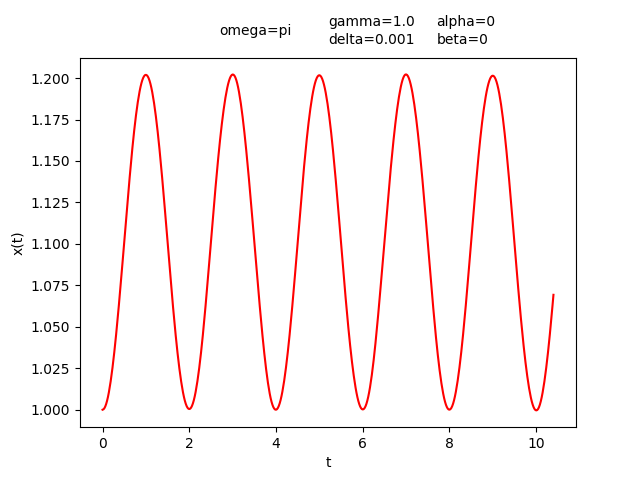
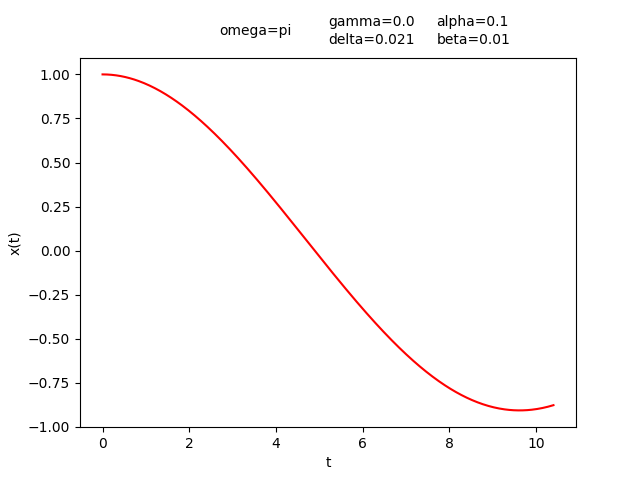
new_pngs

diff --git a/src/numerical_methods/Runge_kut_scipy.py b/src/numerical_methods/Runge_kut_scipy.py
@@ -4,10 +4,10 @@ from scipy.integrate import odeint, solve_ivp
 import matplotlib.pyplot as plt
 import numpy as np
 
-gamma = 1.0
-delta = 0.001
-alpha = 0
-beta = 0
+gamma = 0.0
+delta = 0.021
+alpha = 0.1
+beta = 0.01
 l = 1
 omega = np.pi*l
 
@@ -51,7 +51,7 @@ if __name__ == "__main__": # pragma: no cover
     plt.plot(t, sol.y[0, :], 'r')
     plt.xlabel('t')
     plt.ylabel('x(t)')
-    dl = (max(sol.y[0]) - min(sol.y[1]))*0.012 # <- change the last parameter to align the labels
+    dl = (max(sol.y[0]) - min(sol.y[1]))*0.132 # <- change the last parameter to align the labels
     plt.text(t[-1]/2-2.5, max(sol.y[0, :])+1.3*dl, f"omega={'' if l==1 else l}pi")
     plt.text(t[-1]/2, max(sol.y[0])+1.6*dl, f"gamma={gamma}")
     plt.text(t[-1]/2, max(sol.y[0])+dl, f"delta={delta}")
